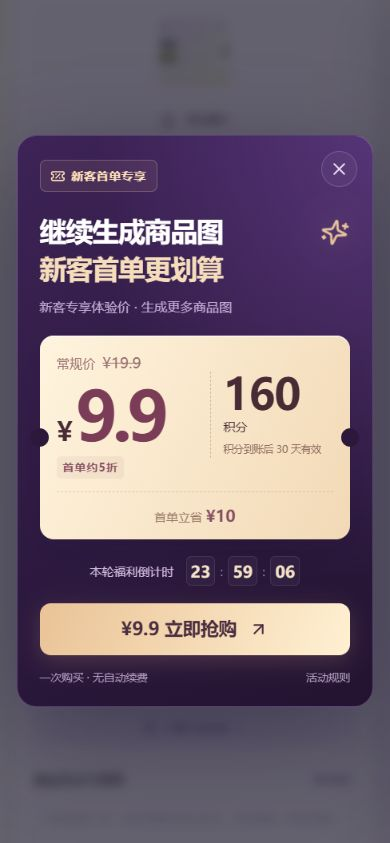
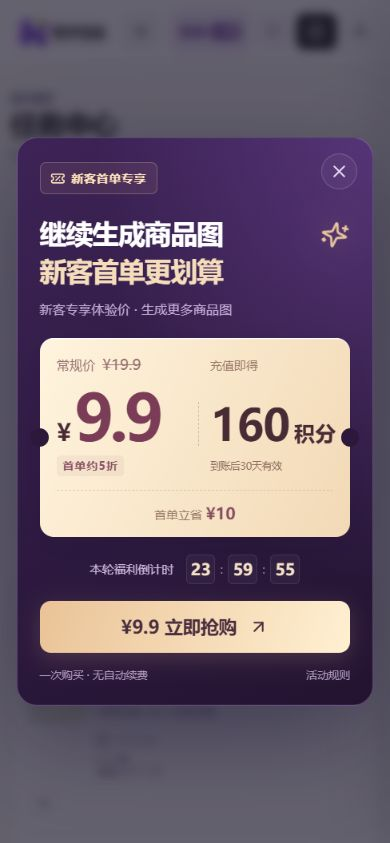
Enlarge the credit label and align newcomer offer amounts

diff --git a/components/newcomer-offer-controller.tsx b/components/newcomer-offer-controller.tsx
@@ -115,7 +115,19 @@ export function NewcomerOfferModal({offer,receivedAt,now,onClose}:{offer:Offer;r
   return <dialog ref={dialog} className={styles.dialog} aria-labelledby="newcomer-offer-title" onCancel={event=>{event.preventDefault();onClose();}} onClick={event=>{if(event.target===event.currentTarget){const r=event.currentTarget.getBoundingClientRect();if(event.clientX<r.left||event.clientX>r.right||event.clientY<r.top||event.clientY>r.bottom)onClose();}}}>
     <button type="button" className={styles.close} aria-label="关闭新人优惠" onClick={onClose}><X size={20}/></button>
     <div className={styles.top}><span className={styles.badge}><TicketPercent size={15}/>新客首单专享</span><Sparkles className={styles.sparkle} size={38}/><h2 id="newcomer-offer-title">继续生成商品图<br/><em>新客首单更划算</em></h2><p>新客专享体验价 · 生成更多商品图</p></div>
-    <div className={styles.coupon}><div className={styles.price}><small className={styles.originalPrice}>常规价 <s>¥{(offer.regular_amount_fen/100).toFixed(1)}</s></small><span>¥</span><strong>{(offer.amount_fen/100).toFixed(1)}</strong><b>首单约{Math.round(offer.amount_fen/offer.regular_amount_fen*10)}折</b></div><div className={styles.benefit}><strong>{offer.credits}<small>积分</small></strong><span>积分到账后 {offer.validity_days} 天有效</span></div><div className={styles.perImage}>首单立省 <strong>¥{offer.savings_fen/100}</strong></div></div>
+    <div className={styles.coupon}>
+      <div className={styles.price}>
+        <small className={styles.originalPrice}>常规价 <s>¥{(offer.regular_amount_fen/100).toFixed(1)}</s></small>
+        <div className={styles.priceValue}><span>¥</span><strong>{(offer.amount_fen/100).toFixed(1)}</strong></div>
+        <b>首单约{Math.round(offer.amount_fen/offer.regular_amount_fen*10)}折</b>
+      </div>
+      <div className={styles.benefit}>
+        <span className={styles.creditsLabel}>充值即得</span>
+        <div className={styles.creditValue}><strong>{offer.credits}</strong><span>积分</span></div>
+        <span className={styles.validity}>到账后{offer.validity_days}天有效</span>
+      </div>
+      <div className={styles.perImage}>首单立省 <strong>¥{offer.savings_fen/100}</strong></div>
+    </div>
     <div className={styles.countdown}><span>本轮福利倒计时</span><div aria-label={`剩余${time.parts[0]}小时${time.parts[1]}分${time.parts[2]}秒`}>{time.parts.map((part,index)=><span key={index}>{index>0&&<i>:</i>}<b>{part}</b></span>)}</div></div>
     <Link className={styles.buy} href="/account?offer=newcomer#membership" onClick={onClose}>¥9.9 立即抢购<ArrowUpRight size={20}/></Link>
     <div className={styles.bottom}><span>一次购买 · 无自动续费</span><details><summary>活动规则</summary><p>未付费用户首单专享，每人限购一次。每24小时更新一轮福利，未购买用户可继续参与；每天最多提醒一次。160积分到账后30天有效。</p></details></div>

diff --git a/components/newcomer-offer-controller.module.css b/components/newcomer-offer-controller.module.css
@@ -7,6 +7,20 @@
 
 .floating time{display:inline-block;margin-left:3px;padding:2px 5px;border:1px solid #f0d2a64d;border-radius:4px;background:#fff0d214;color:#ffe4b8;font-weight:750;font-variant-numeric:tabular-nums;letter-spacing:.6px}.floating small{color:#d8c4e6}.floating strong{color:#ffe2b4}
 
-.benefit>strong{font-size:48px;letter-spacing:-1px}.benefit small{font-size:14px}.benefit>span{font-size:11px;line-height:1.7}.perImage{font-size:12px}.perImage strong{font-size:16px}@media(max-width:480px){.benefit>strong{font-size:43px}.benefit{padding-left:12px}.benefit>span{font-size:10px}}
-
-@media(max-width:480px){.benefit>strong{display:flex;flex-direction:column;align-items:flex-start;gap:5px;line-height:1}.benefit small{margin-left:0;white-space:nowrap;font-size:12px;line-height:1.2}}
+/* Share the same grid rows so the price, credit amount and captions align. */
+.coupon{--credit-inset:18px;grid-template-columns:minmax(0,1fr) minmax(0,1.05fr);align-items:baseline;gap:8px 18px}
+.price,.benefit{display:contents}
+.price>.originalPrice{grid-column:1;grid-row:1;margin:0;line-height:20px;white-space:nowrap}
+.priceValue{grid-column:1;grid-row:2;display:flex;align-items:baseline;gap:3px;white-space:nowrap}
+.priceValue>span{font-size:26px;line-height:1;font-weight:700}
+.priceValue>strong{font-size:76px;line-height:1;letter-spacing:-5px;font-weight:750;color:#7b3c57;font-variant-numeric:tabular-nums}
+.price>b{grid-column:1;grid-row:3;justify-self:start;margin:0;line-height:1.4}
+.benefit>.creditsLabel{grid-column:2;grid-row:1;padding-left:var(--credit-inset);font-size:12px;line-height:20px;color:#987867}
+.creditValue{grid-column:2;grid-row:2;display:flex;align-items:baseline;gap:6px;padding-left:var(--credit-inset);border-left:1px dashed #ad8c6e80;white-space:nowrap;color:#492b35}
+.creditValue>strong{font-size:60px;line-height:1;font-weight:750;letter-spacing:-2px;font-variant-numeric:tabular-nums}
+.creditValue>span{font-size:24px;line-height:1;font-weight:650;letter-spacing:0}
+.benefit>.validity{grid-column:2;grid-row:3;padding-left:var(--credit-inset);font-size:11px;line-height:1.4;white-space:nowrap}
+.perImage{grid-row:4;margin-top:5px;font-size:12px}.perImage strong{font-size:16px}
+@media(max-width:480px){.coupon{--credit-inset:12px;gap:8px 13px}.priceValue>span{font-size:24px}.priceValue>strong{font-size:64px;letter-spacing:-4px}.creditValue{gap:5px}.creditValue>strong{font-size:44px;letter-spacing:-1px}.creditValue>span{font-size:21px}.benefit>.validity{font-size:10px}}
+@media(max-width:374px){.coupon{gap:7px 12px}.priceValue{gap:2px}.priceValue>span{font-size:22px}.priceValue>strong{font-size:58px}.creditValue{gap:4px}.creditValue>strong{font-size:38px}.creditValue>span{font-size:18px}}
+@media(max-width:340px){.dialog{padding-inline:16px}.coupon{--credit-inset:8px;padding-inline:14px;gap:7px 10px}.priceValue>span{font-size:20px}.priceValue>strong{font-size:52px}.creditValue>strong{font-size:36px}.creditValue>span{font-size:17px}}
